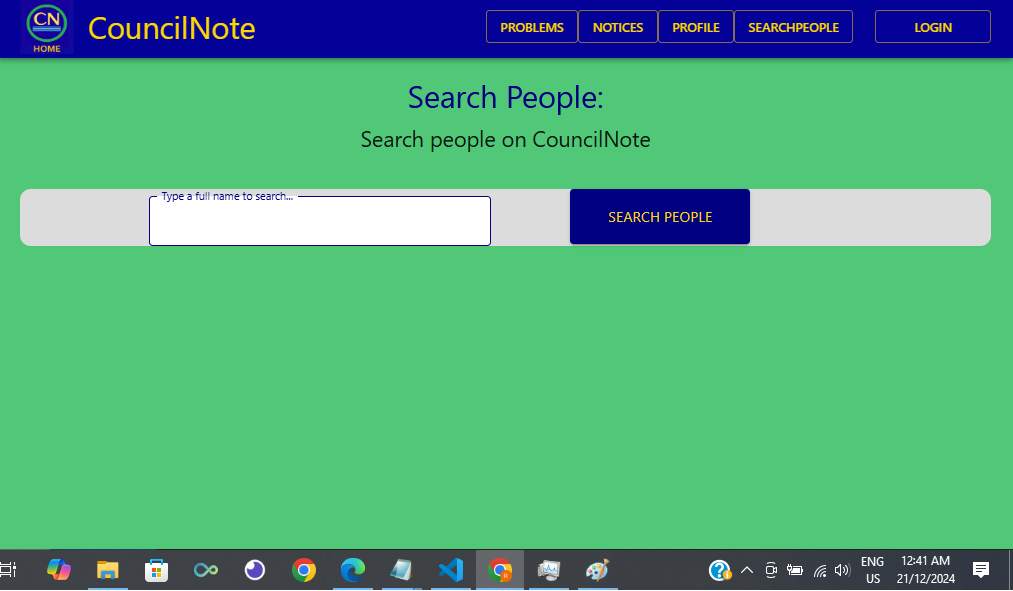
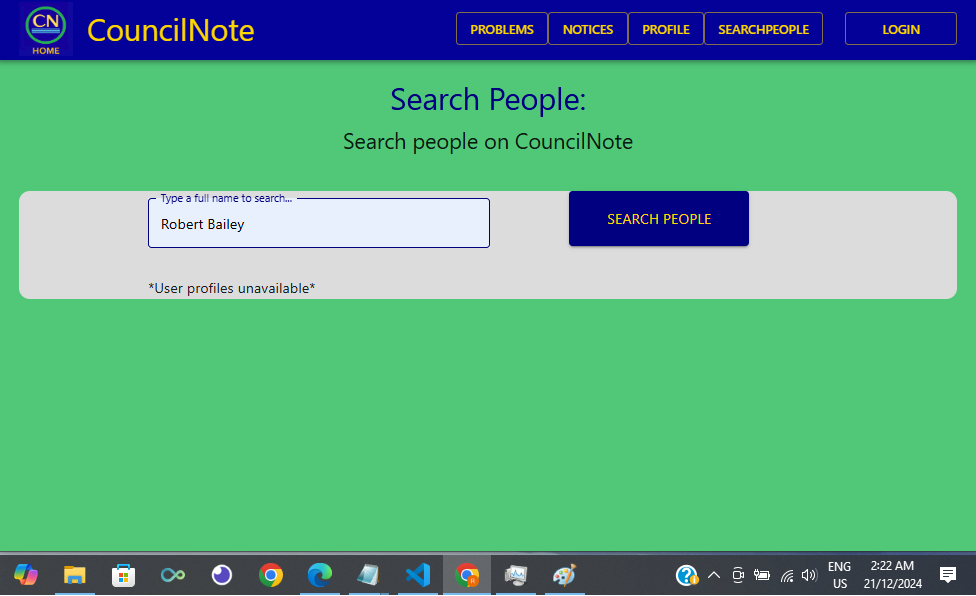
arranging search people a bit more

diff --git a/src/components/SearchPeopleFunction.jsx b/src/components/SearchPeopleFunction.jsx
@@ -1,109 +1,114 @@
-import { useState, useEffect } from 'react'
-import { Container, Typography, TextField, Button, Grid, Paper, Box, Select, InputLabel, MenuItem, CircularProgress, Pagination } from '@mui/material';
-import.meta.env.REACT_APP_ENDPOINT
+import { useState, useEffect } from 'react';
+import { Container, Typography, TextField, Button, Box } from '@mui/material';
+import axios from "axios";
 
-const SearchPeopleFunction = ({onChangeCallback }) => {
- const [users, setUsers] = useState([])
- const [apiUsers,  setApiUsers] = useState([]);
- const [loading, setLoading] = useState(true);
- const [error, setError] = useState(null);
- const [filteredUsers, setFilteredUsers] = useState([]);
- const [searchUser, setSearchUser] = useState("");
- const [searchShow, setSearchShow] = useState(false);
+const SearchPeopleFunction = ({ onChangeCallback }) => {
+  const [users, setUsers] = useState([]);
+  const [apiUsers, setApiUsers] = useState([]);
+  const [loading, setLoading] = useState(false);
+  const [error, setError] = useState(null);
+  const [filteredUsers, setFilteredUsers] = useState([]);
+  const [searchUser, setSearchUser] = useState("");
+  const [searchShow, setSearchShow] = useState(false);
 
-const handleSubmit = (e) => {
-    e.preventDefault();
+  // Define handleSubmit outside of useEffect
+  const handleSubmit = async (event) => {
+    event.preventDefault();  // Prevent the default form submission behavior
+    
 
- useEffect(() => {
-  fetch('https://council-note-backend-5cf218cede7a.herokuapp.com/users/searchpeople', users)
-    .then(response => response.json())
-    .then(data => {
-      setApiUsers(data.users)
-      setFilteredUsers(data.users)
-    })
-    .catch(err => {
-      console.log(err)
-      // update the error state
-      setError(err)
-    })
-    .finally(() => {
-      // wether we sucessfully get the users or not, 
-      // we update the loading state
-      setLoading(false)
-    })
-}, [])
-}
+    try {
+      const response = await axios.get('https://council-note-backend-5cf218cede7a.herokuapp.com/users/searchpeople', {
+        headers: {
+          'Content-Type': 'application/json'
+        },
+        body: JSON.stringify({ searchUser }) // Send the search query as part of the request
+      });
 
-const handleInputChange = e => {
-  const searchTerm = e.target.value;
-  setSearchItem(searchTerm)
-  onChangeCallback && onChangeCallback(inputValue)
+      const data = await response.json();
+      setApiUsers(data.users);
+      setFilteredUsers(data.users);
+    } catch (err) {
+      console.error(err);
+      setError(err);
+    } finally {
+      setLoading(false);
+    }
+  };
 
-  if(e.target.value===""){
-    setSearchShow(false);
-  }
-  else {
-    setSearchShow(true);
-  }
+  useEffect(() => {
+    // Optionally load users on component mount
+     handleSubmit(); 
+  }, []); // Empty dependency array means this effect runs once after initial render
 
- 
-    const filteredUsers = apiUsers.filter((users) =>
-        users.fullname.toLowerCase().includes(searchTerm.toLowerCase())
-      
+  const handleInputChange = (e) => {
+    const searchTerm = e.target.value;
+    setSearchUser(searchTerm);
+
+    onChangeCallback && onChangeCallback(searchTerm);
+
+    if (searchTerm === "") {
+      setSearchShow(false);
+    } else {
+      setSearchShow(true);
+    }
+
+    const filteredUsers = apiUsers.filter((user) =>
+      user.fullname.toLowerCase().includes(searchTerm.toLowerCase())
     );
-  
+
     setFilteredUsers(filteredUsers);
+  };
+
+  function searchList() {
+    if (searchShow) {
+      return (
+        <>
+          {loading && <p>Loading...</p>}
+          {error && <p>*An error occurred loading users*</p>}
+          {!loading && !error && filteredUsers.length === 0
+            ? <p>*User profiles unavailable*</p>
+            : <ul>
+                {filteredUsers.map(user => (
+                  <li key={user._id}>
+                    {user.fullname}: Email: {user.email} About: {user.about}
+                  </li>
+                ))}
+              </ul>
+          }
+        </>
+      );
+    }
   }
 
-
-function searchList() {
-  if (searchShow) {
-    return (
-      <>
-        {loading && <p>Loading...</p>}
-        {error && <p>There was an error loading the items</p>}
-        {!loading && !error && filteredUsers.length === 0
-          ? <p>No products found</p>
-          : <ul>
-            {filteredUsers.map(user => <li key={user.id}>{user.fullname}: Email: {user.email} About: {user.about}</li>)}
-          </ul>
-        }
-      </>
-                                             //or _id?
-    )
-  }
-}
-
-return (
-<Container margin="normal" sx={{  bgcolor: '#DCDCDC', borderRadius: 3 }}>
-<Box mt={5} sx={{ mx:15, bgcolor: '#DCDCDC', borderRadius: 3 }}>
-    <form onSubmit={handleSubmit}>
+  return (
+    <Container margin="normal" sx={{ bgcolor: '#DCDCDC', borderRadius: 3 }}>
+      <Box mt={5} sx={{ mx: 15, bgcolor: '#DCDCDC', borderRadius: 3 }}>
+        <form onSubmit={handleSubmit}>
           <TextField
             label="Type a full name to search..."
             name="searchUser"
             value={searchUser}
             onChange={handleInputChange}
-            sx={{ bgcolor: '#fff', mt:1, mr: 3, width:380}}           
+            sx={{ bgcolor: '#fff', mt: 1, mr: 3, width: 380 }}
             color="secondary"
-  
           />
-            <Button
+          <Button
             type="submit"
             variant="contained"
             color="secondary"
-            sx={{ width: 200, height: 62, mx:8 }}
+            sx={{ width: 200, height: 62, mx: 8 }}
           >
-         <Typography color="primary">
-           Search People
-          </Typography> 
+            <Typography color="primary">
+              Search People
+            </Typography>
           </Button>
         </form>
         <Box mt={4} sx={{ bgcolor: '#DCDCDC', borderRadius: 3, justifyContent: "center", alignItems: "center" }}>
-    {searchList()}
-    </Box>
-  </Box>
-</Container>
- );
+          {searchList()}
+        </Box>
+      </Box>
+    </Container>
+  );
 }
 
-export default SearchPeopleFunction
+export default SearchPeopleFunction;

diff --git a/src/App.jsx b/src/App.jsx
@@ -11,7 +11,7 @@ import Home from './pages/Home';
 import Login  from './pages/Login';
 //import LoginFm from './components/LoginFm';
 import Profile from './pages/Profile';
-import SearchPeoplePg from './pages/SearchPeoplePg';
+import SearchPeople from './pages/SearchPeople';
 import Problems from './pages/Problems';
 import Notices from './pages/Notices';
 //import Redirect from './components/Redirect';
@@ -39,7 +39,7 @@ const App = () => {
           <Route path="/problems" element={<Problems />} />
           <Route path="/notices" element={<Notices />} />
           <Route path="/users/:id/profile" element={<Profile />} />
-          <Route path="/users/searchpeoplepg" element={<SearchPeoplePg />} />
+          <Route path="/users/searchpeoplepg" element={<SearchPeople />} />
         </Routes>
         </ThemeProvider>
       

diff --git a/src/pages/SearchPeople.jsx b/src/pages/SearchPeople.jsx
@@ -13,7 +13,7 @@ import.meta.env.REACT_APP_ENDPOINT
 import CNtheme from '../styles/theme';
 import SearchPeopleFunction from "../components/SearchPeopleFunction"
 
-const SearchPeoplePg = () => {
+const SearchPeople = () => {
     return (
   
       <ThemeProvider theme={CNtheme}>
@@ -31,4 +31,4 @@ const SearchPeoplePg = () => {
     );
   };
   
-  export default SearchPeoplePg;
+  export default SearchPeople;

diff --git a/src/components/Navbar.jsx b/src/components/Navbar.jsx
@@ -159,7 +159,7 @@ export default function Navbar() {
           variant="h6"
           noWrap
           component={Link}
-          to="/users/:id/cnprofile"
+          to="/users/:id/profile"
           sx={{
             mr: 2,
             display: { xs: 'none', md: 'flex' },

diff --git a/README.md b/README.md
@@ -28,6 +28,8 @@ Backend: https://github.com/Full-Stack-Council-Note/Council-Note-PartB-backend
 
 ![CN-SearchPeople](./src/assets/CN-SearchPeople.png)
 
+For some reason the "SearchPeople" navbar button won't highlight in green when on this page, like with Problems and Notices, and tried rerranging the name and path of "SearchPeople", and in Navbar component.
+
 ## Testing Frontend
 
 User account created successfully but undefined, and navigated to login page upon submit, as intended.
